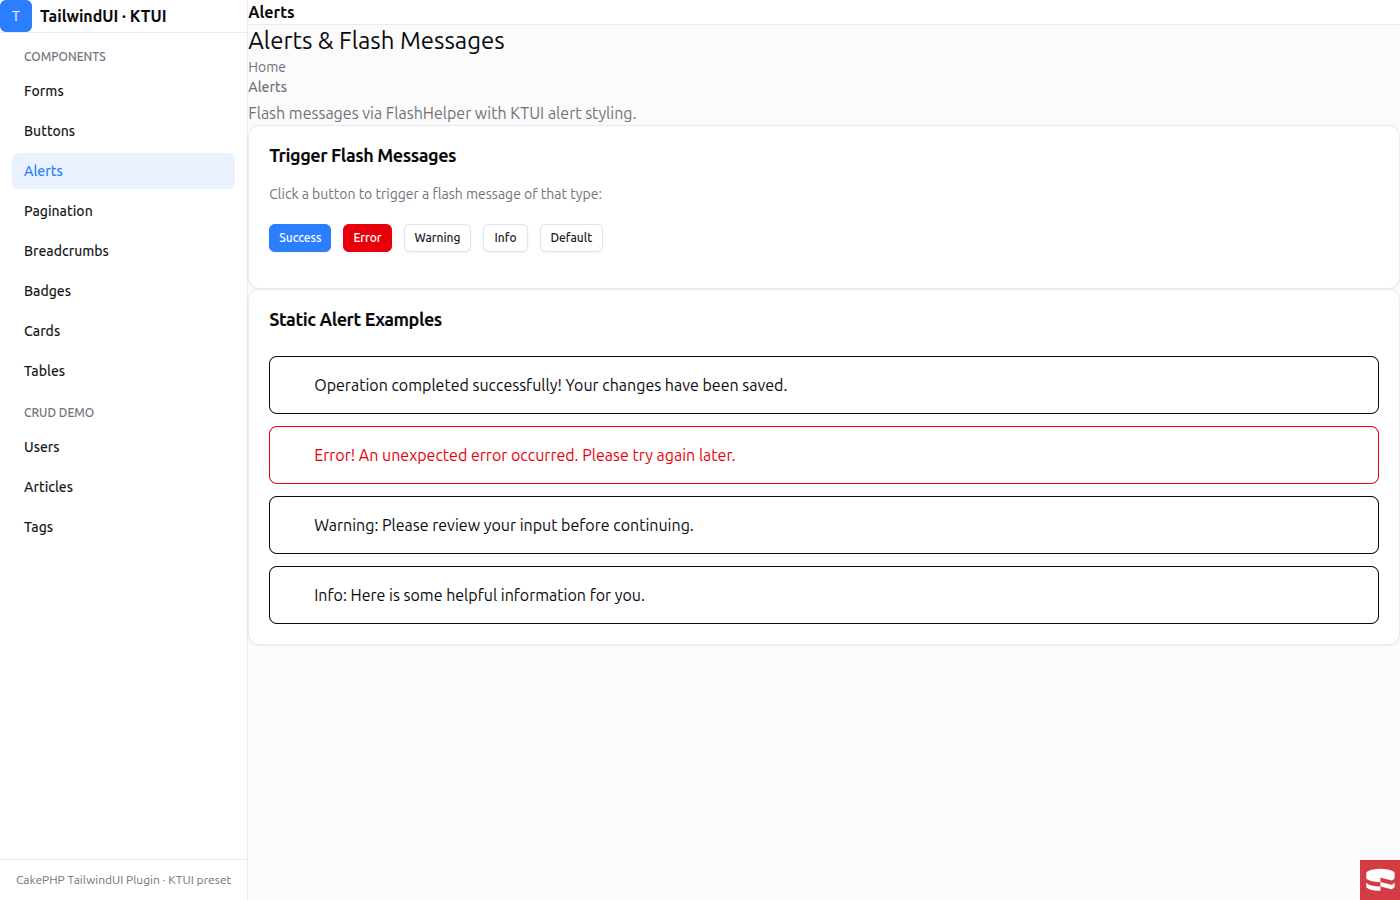
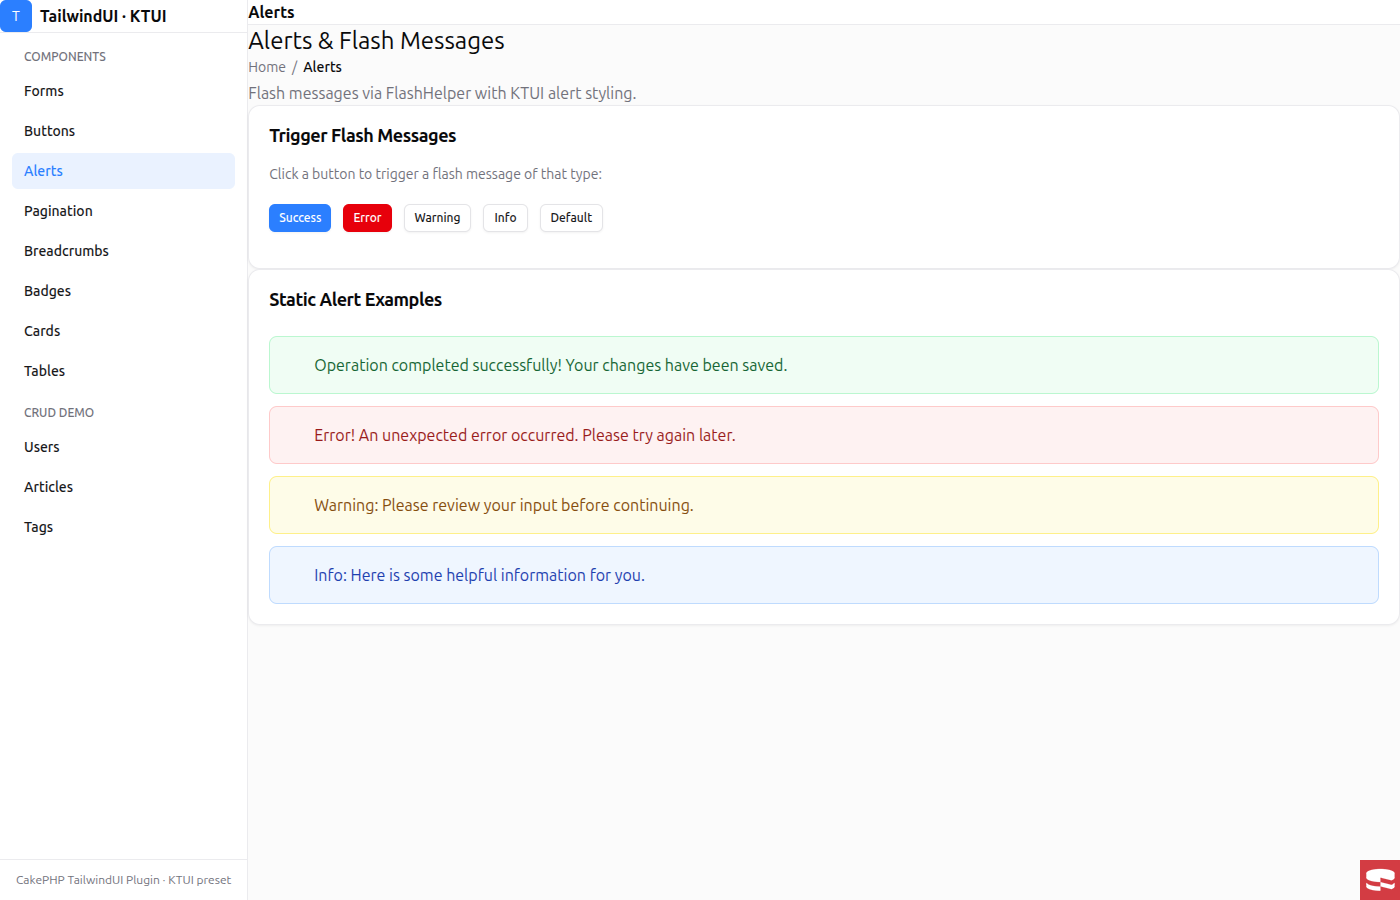
Fix KTUI alert colors and breadcrumb styling
- KTUI class map uses standard Tailwind color names for alerts
  (bg-green-50 text-green-800 etc.) since Metronic does not define
  --success/--warning/--info CSS custom properties
- Breadcrumbs class simplified to 'text-sm text-muted-foreground';
  the demo layout provides flex + separator via an inline <style>
  block since Metronic's CSS is tree-shaken and doesn't include
  arbitrary variants or many utility class combinations
- Fresh KTUI alert and breadcrumb screenshots showing working output
- Update BreadcrumbsHelperTest for new class map value

Changed region(s): [[0.1843, 0.3111, 0.9829, 0.6844], [0.1536, 0.0622, 0.4607, 0.28]]

diff --git a/config/class_maps/ktui.php b/config/class_maps/ktui.php
@@ -32,11 +32,11 @@ return [
     'btn.sm' => 'kt-btn-sm',
     'btn.lg' => '',
     'alert' => 'flex items-center gap-2 p-4 rounded-lg border',
-    'alert.success' => 'bg-success/10 border-success/20 text-success',
-    'alert.error' => 'bg-destructive/10 border-destructive/20 text-destructive',
-    'alert.warning' => 'bg-warning/10 border-warning/20 text-warning',
-    'alert.info' => 'bg-info/10 border-info/20 text-info',
-    'alert.default' => 'bg-info/10 border-info/20 text-info',
+    'alert.success' => 'bg-green-50 border-green-200 text-green-800',
+    'alert.error' => 'bg-red-50 border-red-200 text-red-800',
+    'alert.warning' => 'bg-yellow-50 border-yellow-200 text-yellow-800',
+    'alert.info' => 'bg-blue-50 border-blue-200 text-blue-800',
+    'alert.default' => 'bg-zinc-50 border-zinc-200 text-zinc-800',
     'badge' => 'kt-badge',
     'badge.primary' => 'kt-badge-primary',
     'badge.secondary' => 'kt-badge-secondary',
@@ -51,10 +51,10 @@ return [
     'pagination.item' => 'kt-btn kt-btn-sm kt-btn-outline',
     'pagination.active' => 'kt-btn-primary',
     'pagination.disabled' => 'opacity-50 pointer-events-none',
-    'breadcrumbs' => 'flex items-center gap-1.5 text-sm',
-    'breadcrumbs.item' => 'text-muted-foreground',
+    'breadcrumbs' => 'text-sm text-muted-foreground',
+    'breadcrumbs.item' => '',
     'breadcrumbs.active' => 'text-foreground font-medium',
-    'breadcrumbs.separator' => 'text-muted-foreground',
+    'breadcrumbs.separator' => '',
     'card' => 'kt-card',
     'card.header' => 'kt-card-header',
     'card.body' => 'kt-card-content grid gap-5',

diff --git a/tests/TestCase/View/Helper/BreadcrumbsHelperTest.php b/tests/TestCase/View/Helper/BreadcrumbsHelperTest.php
@@ -84,7 +84,7 @@ class BreadcrumbsHelperTest extends TestCase
         $this->Breadcrumbs->add('Articles');
 
         $result = $this->Breadcrumbs->render();
-        $this->assertStringContainsString('flex items-center gap-1.5 text-sm', $result);
+        $this->assertStringContainsString('text-sm text-muted-foreground', $result);
         $this->assertStringContainsString('text-foreground font-medium', $result);
     }
 }
